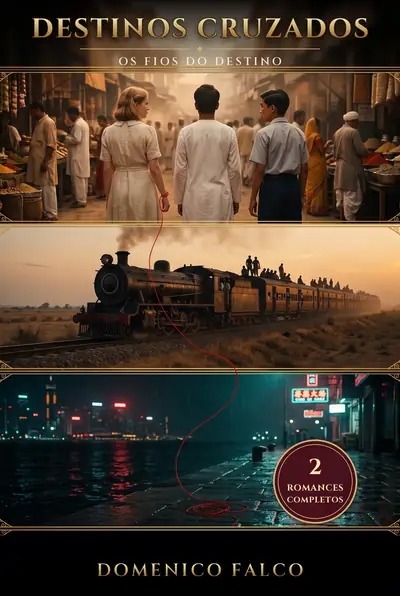
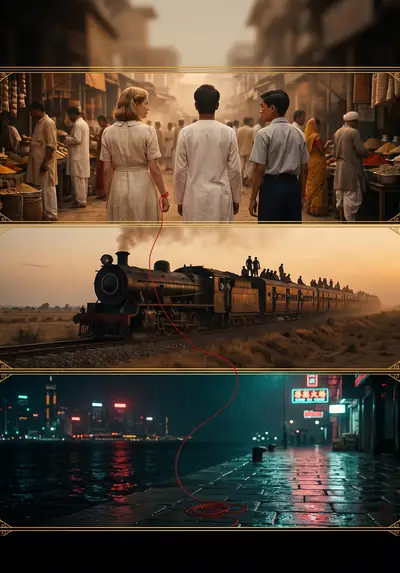
Correções pós-revisão: recomendações, recorte de capa, thumbs dos volumes
- Recomendadas ("Continue no mesmo mundo") do bundle Destinos Cruzados e de
  A Saga Italiana apontavam para os proprios livros que ja estao dentro do
  bundle. Trocadas por obras de fora.
- CSS de .pdp-rel img nao travava a altura: o atributo HTML height="598" do
  <img> tinha prioridade sobre aspect-ratio quando nada sobrescrevia height,
  entao cada card da grade saia com o tamanho da propria capa (a arte de IA
  nunca sai identica entre obras). Adicionado height:auto explicito + 2:3 +
  object-fit:cover, uniforme em qualquer PDP que use esse bloco.
- Capa do bundle Destinos Cruzados: Os Fios do Destino tinha ~230px de preto
  morto entre a borda do 3o painel e o nome do autor, fazendo a arte parecer
  mais espichada que as outras da onda. Cortada a partir do original intocado
  (2. Produto/.../Omnibus/Destinos Cruzados/3. capa), proporcao 1.61 -> 1.43.
- Bloco "O que voce vai ler" do template de obra ganhou thumbnail por volume
  (so usada por enquanto em Destinos Cruzados, que tem o campo slug nos 2
  volumes; A Saga Italiana continua sem, pois nao foi pedido).
- Facelift de A Industria do Vicio (arte v2, tipografia serifada), aplicada
  no mesmo padrao dos outros lotes.

diff --git a/.claude/recorte-capa-destinos-cruzados-omnibus-05-09-2026.py b/.claude/recorte-capa-destinos-cruzados-omnibus-05-09-2026.py
@@ -1,0 +1,79 @@
+"""
+Aperta o enquadramento da capa do omnibus Destinos Cruzados: Os Fios do
+Destino. A arte tem 3 paineis (Delhi / trem / Hong Kong) e termina com uma
+faixa preta grande para caber o nome do autor: entre a borda dourada do
+3o painel e o texto "Domenico Falco" havia ~150px de preto morto, mais outra
+sobra abaixo do nome. Numa capa de PDP exibida pequena (118-260px de largura),
+essa sobra fazia a arte parecer mais espichada/vazia que as capas das outras
+obras da onda (O Siciliano, A Vila, Um Lugar ao Sol), que nao tem essa faixa.
+
+Fix: corta a faixa morta em duas fatias que se encontram no preto puro dos
+dois lados (sem risco de emenda visivel) e cola de volta, sem tocar em
+nenhum pixel de arte ou texto. Proporcao sai de 1.61 para 1.43 (dentro da
+faixa 1.34-1.61 que ja existe entre as 30 obras do catalogo).
+
+Toca os 3 destinos que nascem da mesma fonte:
+  1. .claude/epub/capas/destinos-cruzados-omnibus.jpg  (motor de EPUB + PDP)
+  2. Site/livrosdofalco/covers/destinos-cruzados-fios-do-destino.{jpg,webp}
+  3. Site/livrosdofalco/covers/pdp/destinos-cruzados-fios-do-destino-*
+     (regerado por .claude/pdp/gerar_capas.py depois deste script, nao aqui)
+
+Uso: python .claude/recorte-capa-destinos-cruzados-omnibus-05-09-2026.py
+"""
+from pathlib import Path
+from PIL import Image
+
+SITE_ROOT = Path(__file__).resolve().parent.parent
+RAIZ = SITE_ROOT.parent.parent
+# Le do original intocado (nao do .claude/epub/capas, que este script
+# sobrescreve): assim rodar o script duas vezes sempre corta a partir da
+# mesma arte, em vez de cortar em cima do proprio resultado anterior.
+ORIGINAL = (RAIZ / "2. Produto" / "Catalogo" / "Omnibus" / "Destinos Cruzados"
+            / "3. capa" / "Capa Destinos Cruzados Omnibus.jpg")
+DESTINO_CANONICO = RAIZ / ".claude" / "epub" / "capas" / "destinos-cruzados-omnibus.jpg"
+SLUG = "destinos-cruzados-fios-do-destino"
+
+# Limites medidos por perfil de brilho (media de linha), amostrados a cada
+# poucos pixels: y=2280 e ja preto solido (a borda dourada do 3o painel
+# desaparece por volta de 2270); o texto do autor comeca a aparecer perto de
+# 2394 e termina perto de 2448. Cortar em 2280/2340 preserva ~60px de
+# respiro puro-preto antes do nome, contra os ~150px originais. Do lado de
+# baixo, a imagem original ainda sobrava ~80px de preto puro depois do nome;
+# CORTE_FUNDO_ATE encurta essa margem para ~40px.
+CORTE_TOPO_ATE = 2280
+CORTE_FUNDO_DE = 2340
+CORTE_FUNDO_ATE = 2488
+
+LARGURA_SITE = 400
+JPG_QUALITY = 85
+WEBP_QUALITY = 68
+
+
+def main():
+    original = Image.open(ORIGINAL).convert("RGB")
+    w, h = original.size
+    topo = original.crop((0, 0, w, CORTE_TOPO_ATE))
+    fundo = original.crop((0, CORTE_FUNDO_DE, w, CORTE_FUNDO_ATE))
+    apertada = Image.new("RGB", (w, topo.height + fundo.height))
+    apertada.paste(topo, (0, 0))
+    apertada.paste(fundo, (0, topo.height))
+    print(f"{original.size} (proporcao {h/w:.3f}) -> {apertada.size} "
+          f"(proporcao {apertada.height/apertada.width:.3f})")
+
+    apertada.save(DESTINO_CANONICO, "JPEG", quality=92, optimize=True, progressive=True)
+    print(f"fonte canonica atualizada: {DESTINO_CANONICO.relative_to(RAIZ)}")
+
+    largura = LARGURA_SITE
+    altura = round(apertada.height * largura / apertada.width)
+    card = apertada.resize((largura, altura), Image.LANCZOS)
+    jpg_out = SITE_ROOT / "covers" / f"{SLUG}.jpg"
+    webp_out = SITE_ROOT / "covers" / f"{SLUG}.webp"
+    card.save(jpg_out, "JPEG", quality=JPG_QUALITY, optimize=True)
+    card.save(webp_out, "WEBP", quality=WEBP_QUALITY, method=6)
+    print(f"covers: {card.size} -> {jpg_out.name}, {webp_out.name}")
+    print("falta rodar: python .claude/pdp/gerar_capas.py "
+          "destinos-cruzados-fios-do-destino")
+
+
+if __name__ == "__main__":
+    main()

diff --git a/.claude/aplicar-facelift-a-industria-do-vicio-05-09-2026.py b/.claude/aplicar-facelift-a-industria-do-vicio-05-09-2026.py
@@ -1,0 +1,64 @@
+"""
+Aplica a nova capa (facelift v2, tipografia serifada ja embutida na arte,
+mesmo padrao da onda de 05/09) em A Industria do Vicio. A capa antiga usava
+a fonte redonda com contorno branco da primeira geracao de artes do catalogo
+(o mesmo estilo que Destinos Cruzados: Parte 2 tinha antes do facelift).
+
+Toca os dois destinos derivados da mesma fonte:
+  1. .claude/epub/capas/a-industria-do-vicio.jpg
+     fonte canonica usada pelo motor de EPUB (--cover) e pelo gerador de capa
+     de PDP (.claude/pdp/gerar_capas.py).
+  2. Site/livrosdofalco/covers/a-industria-do-vicio.{jpg,webp}
+     miniatura de card do site (400px): jpg q85, webp q68, sem mexer em HTML.
+
+Uso: python .claude/aplicar-facelift-a-industria-do-vicio-05-09-2026.py
+"""
+from pathlib import Path
+from PIL import Image
+
+SITE_ROOT = Path(__file__).resolve().parent.parent
+RAIZ = SITE_ROOT.parent.parent
+ORIGEM = (RAIZ / "2. Produto" / "Catalogo" / "Obras Literárias"
+          / "15. A indústria do vício" / "2. eBook"
+          / "Facelift A Industria do Vicio v2.jpg")
+SLUG = "a-industria-do-vicio"
+
+LARGURA_EPUB = 1060
+QUALIDADE_EPUB = 90
+LARGURA_SITE = 400
+JPG_QUALITY = 85
+WEBP_QUALITY = 68
+
+
+def redimensiona(img: Image.Image, largura: int) -> Image.Image:
+    altura = round(img.height * largura / img.width)
+    return img.resize((largura, altura), Image.LANCZOS)
+
+
+def main():
+    if not ORIGEM.is_file():
+        raise SystemExit(f"arte nao encontrada: {ORIGEM}")
+
+    original = Image.open(ORIGEM).convert("RGB")
+    print(f"origem: {original.size}, {ORIGEM.stat().st_size / 1024:.0f} KiB")
+
+    destino_epub = RAIZ / ".claude" / "epub" / "capas" / f"{SLUG}.jpg"
+    antes = destino_epub.stat().st_size if destino_epub.exists() else 0
+    epub_img = redimensiona(original, LARGURA_EPUB)
+    epub_img.save(destino_epub, "JPEG", quality=QUALIDADE_EPUB, optimize=True, progressive=True)
+    print(f"epub/capas: {epub_img.size}  {antes/1024:.0f} KiB -> {destino_epub.stat().st_size/1024:.0f} KiB")
+
+    site_img = redimensiona(original, LARGURA_SITE)
+    jpg_out = SITE_ROOT / "covers" / f"{SLUG}.jpg"
+    webp_out = SITE_ROOT / "covers" / f"{SLUG}.webp"
+    antes_jpg = jpg_out.stat().st_size if jpg_out.exists() else 0
+    antes_webp = webp_out.stat().st_size if webp_out.exists() else 0
+    site_img.save(jpg_out, "JPEG", quality=JPG_QUALITY, optimize=True)
+    site_img.save(webp_out, "WEBP", quality=WEBP_QUALITY, method=6)
+    print(f"covers: {site_img.size}")
+    print(f"  jpg : {antes_jpg/1024:7.1f} KiB -> {jpg_out.stat().st_size/1024:7.1f} KiB")
+    print(f"  webp: {antes_webp/1024:7.1f} KiB -> {webp_out.stat().st_size/1024:7.1f} KiB")
+
+
+if __name__ == "__main__":
+    main()
